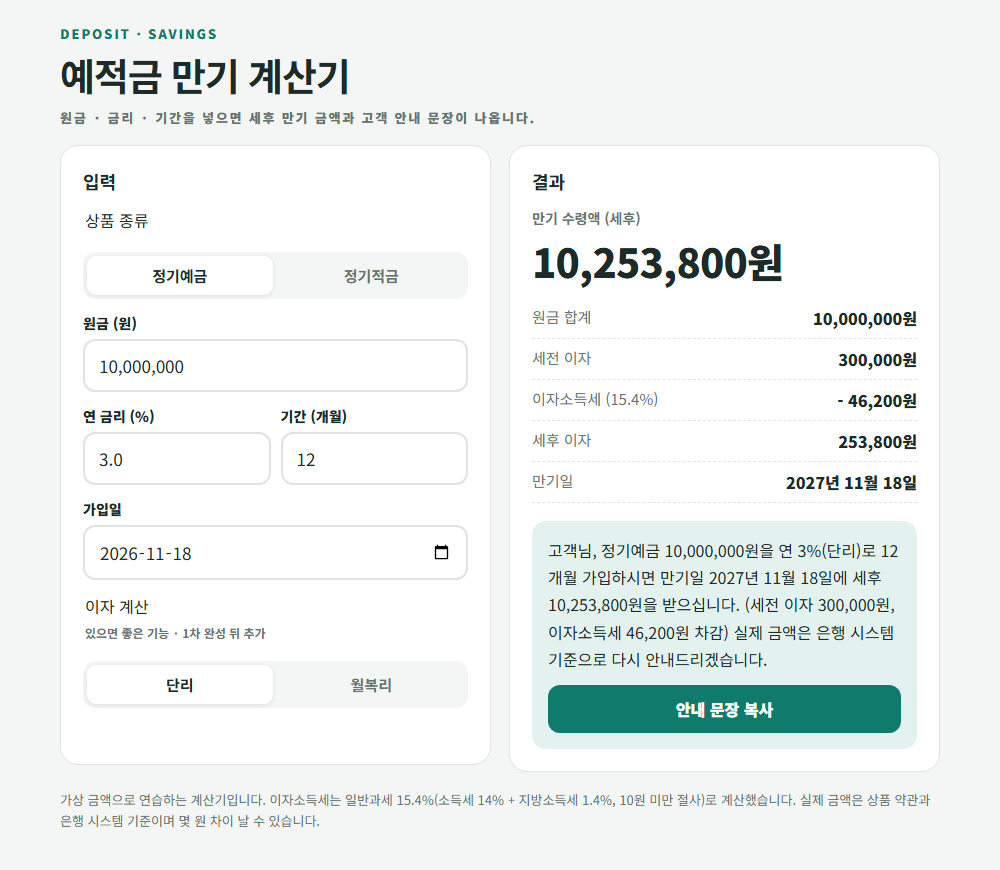
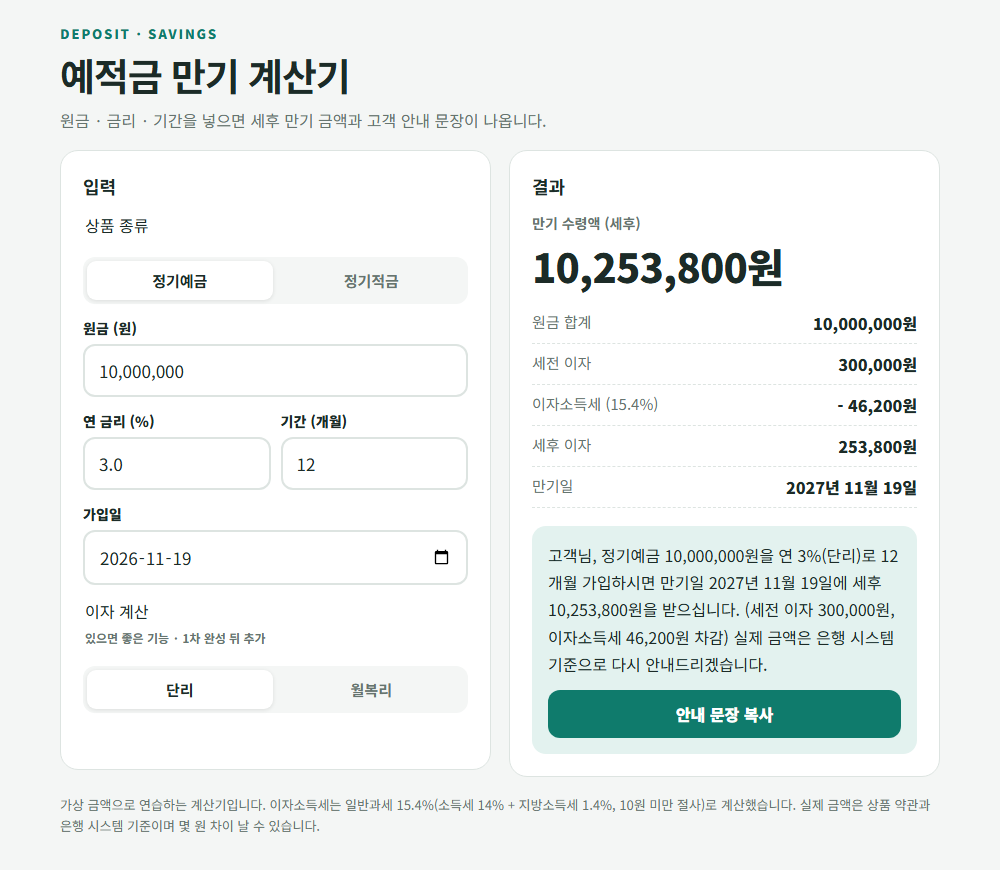
work-os-builder: 불편을 들으면 HTML 도구 아이디어를 먼저 제안
- 작은 도구 모드: 불편 듣기 → 해결 아이디어 2~3개(HTML 한 장) 제안 → Codex가 PRD 초안 채워 확인 → prd.md → 만들까요? → index.html + test.md
- 결과물은 반드시 HTML 하나. 자동 발송 · 시스템 연동 같은 요청은 복사 버튼 · 붙여넣기 모양으로 바꿔 제안
- references/tool-ideas.md: 도구 유형 5가지, 금융 직군별 불편 → 아이디어, HTML로 바꾸는 법
- 질문은 한 번에 하나, 자기소개 업무 먼저 읽기, 만든 뒤 직접 확인 단계 추가
- 강사예시 예적금 계산기: 부제목에 머리말 스타일이 묻던 것 고침

diff --git a/[강사예시]/실습3_나만의도구/예적금-만기계산기/index.html b/[강사예시]/실습3_나만의도구/예적금-만기계산기/index.html
@@ -21,7 +21,7 @@
   * { box-sizing: border-box; }
   body { margin: 0; padding: 24px 16px 40px; background: var(--bg); }
   .wrap { max-width: 880px; margin: 0 auto; display: grid; gap: 18px; }
-  header p { margin: 0 0 4px; color: var(--accent); font-size: 13px; font-weight: 800; letter-spacing: .14em; }
+  header .eyebrow { margin: 0 0 4px; color: var(--accent); font-size: 13px; font-weight: 800; letter-spacing: .14em; }
   h1 { margin: 0; font-size: clamp(28px, 5vw, 38px); letter-spacing: -0.03em; }
   .sub { margin: 6px 0 0; color: var(--muted); }
   .grid { display: grid; grid-template-columns: repeat(auto-fit, minmax(min(100%, 380px), 1fr)); gap: 18px; align-items: start; }
@@ -60,7 +60,7 @@
 <body>
 <div class="wrap">
   <header>
-    <p>DEPOSIT · SAVINGS</p>
+    <p class="eyebrow">DEPOSIT · SAVINGS</p>
     <h1>예적금 만기 계산기</h1>
     <p class="sub">원금 · 금리 · 기간을 넣으면 세후 만기 금액과 고객 안내 문장이 나옵니다.</p>
   </header>

diff --git a/.agents/skills/work-os-builder/references/tool-ideas.md b/.agents/skills/work-os-builder/references/tool-ideas.md
@@ -1,0 +1,38 @@
+# 작은 도구 아이디어 모음 (HTML 한 장)
+
+불편을 들은 뒤 해결 아이디어를 낼 때 쓴다. 모두 `index.html` 하나로, 서버 · 로그인 · API 키 · 실제 데이터 없이 돌아가는 것만 적었다. 이름은 수강생의 직무에 맞게 바꿔서 제안한다.
+
+## 도구 유형 (쉬운 순서)
+
+| 유형 | 모양 | 이런 불편에 | 난이도 |
+|---|---|---|---|
+| **작성기** | 칸 몇 개를 채우면 정해진 문장이 완성되고 복사 버튼 | 같은 안내 · 보고 문장을 매번 다시 씀 | 쉬움 |
+| **점검표** | 체크 항목 + 진행률, 다 체크하면 "완료" 표시, 날짜 바뀌면 초기화 | 정기 업무 · 절차를 빠뜨림 | 쉬움 |
+| **계산기** | 숫자 몇 개 입력 → 결과 + 결과를 담은 안내 문장 복사 | 계산기 두드리고 결과를 다시 옮겨 적음 | 보통 |
+| **변환기 · 검사기** | 글이나 표를 붙여 넣으면 정리 · 가리기 · 빨간 표시 | 엑셀 · 메신저 내용을 손으로 다듬음, 표현 실수 | 보통 |
+| **현황판** | 표(가짜 데이터 또는 붙여넣기)를 숫자 요약 · 막대 차트로 | 매주 같은 집계 · 보고 | 보통 |
+
+## 금융권 직군별 불편 → 아이디어
+
+| 직군 | 자주 듣는 불편 | HTML 도구 아이디어 |
+|---|---|---|
+| 창구 · 개인금융 | 만기 금액 · 이자를 물을 때마다 계산하고 안내문을 다시 씀 | 예적금 만기 계산기 (세후 금액 + 안내 문장 복사) — `[강사예시]` 참고 |
+| 창구 · 개인금융 | 고객마다 필요 서류를 말로 설명하고 빠뜨림 | 업무별 필요 서류 점검표 (업무 고르면 서류 목록 + 안내 문장) |
+| 창구 · 공통 | 마감 때 시재 · 서류 점검을 기억에 의존 | 일일 마감 점검표 (항목 체크 + 진행률 + 날짜 바뀌면 초기화) |
+| 외환 · 송금 | 환전 금액 · 우대율 계산하고 안내를 다시 씀 | 환전 안내 계산기 (기준환율 · 우대율 → 살 때 금액 + 안내 문장) |
+| 여신 · 기업금융 | 중도상환수수료 · 이자를 매번 계산 | 중도상환수수료 계산기 (잔액 · 요율 · 남은 기간 → 수수료 + 설명 문장) |
+| 여신 · 기업금융 | 만기 도래 고객에게 비슷한 연락 문장을 반복 작성 | 만기 안내 문장 작성기 (고객 유형 · 만기일 · 필요 서류 → 문장 복사) |
+| 고객 안내 · 마케팅 | 문자 · 카톡 안내문에 쓰면 안 되는 표현을 매번 눈으로 확인 | 금지어 점검기 (글 붙여 넣기 → "확정 수익 · 무조건 · 100%" 빨간 표시 + 바꿀 말 제안) |
+| 내부통제 · 공통 | AI나 메신저에 붙이기 전에 개인정보를 손으로 지움 | 개인정보 마스킹기 (글 붙여 넣기 → 주민번호 · 계좌 · 전화번호 가리기 + 가린 개수) |
+| 본부 · 기획 | 매주 엑셀을 정리해 같은 모양의 보고 숫자를 만듦 | 주간 현황판 (표 붙여 넣기 → 합계 · 증감 · 막대 차트, 가짜 데이터로 시작) |
+| 본부 · 공통 | 회의 메모를 보고 문장으로 다시 정리 | 회의 메모 → 보고 문장 정리기 (항목 칸 채우기 → 보고 형식 문장 복사) |
+
+## HTML 하나로 안 되는 요청을 바꾸는 법
+
+| 원래 요청 | HTML로 바꾸면 |
+|---|---|
+| 고객에게 자동으로 문자 · 메일 보내기 | 문장을 만들어 **복사 버튼** (보내기는 사람이) |
+| 사내 시스템에서 자동으로 불러오기 | 시스템 화면을 복사해 **붙여 넣으면** 정리 |
+| 엑셀 파일 여러 개 합치기 | 표를 **붙여 넣으면** 합쳐서 보여 주기 (파일 업로드 없이) |
+| 앱 안에서 AI가 답하기 | 정해진 규칙 · 문장 틀로 만들기 (AI 호출은 키 · 보안 승인이 필요한 다음 단계) |
+| 팀이 함께 쓰는 공유 장부 | 첫 버전은 혼자 쓰는 브라우저 저장 + 백업 버튼 (공유는 다음 단계) |

diff --git a/.claude/skills/work-os-builder/references/tool-ideas.md b/.claude/skills/work-os-builder/references/tool-ideas.md
@@ -1,0 +1,38 @@
+# 작은 도구 아이디어 모음 (HTML 한 장)
+
+불편을 들은 뒤 해결 아이디어를 낼 때 쓴다. 모두 `index.html` 하나로, 서버 · 로그인 · API 키 · 실제 데이터 없이 돌아가는 것만 적었다. 이름은 수강생의 직무에 맞게 바꿔서 제안한다.
+
+## 도구 유형 (쉬운 순서)
+
+| 유형 | 모양 | 이런 불편에 | 난이도 |
+|---|---|---|---|
+| **작성기** | 칸 몇 개를 채우면 정해진 문장이 완성되고 복사 버튼 | 같은 안내 · 보고 문장을 매번 다시 씀 | 쉬움 |
+| **점검표** | 체크 항목 + 진행률, 다 체크하면 "완료" 표시, 날짜 바뀌면 초기화 | 정기 업무 · 절차를 빠뜨림 | 쉬움 |
+| **계산기** | 숫자 몇 개 입력 → 결과 + 결과를 담은 안내 문장 복사 | 계산기 두드리고 결과를 다시 옮겨 적음 | 보통 |
+| **변환기 · 검사기** | 글이나 표를 붙여 넣으면 정리 · 가리기 · 빨간 표시 | 엑셀 · 메신저 내용을 손으로 다듬음, 표현 실수 | 보통 |
+| **현황판** | 표(가짜 데이터 또는 붙여넣기)를 숫자 요약 · 막대 차트로 | 매주 같은 집계 · 보고 | 보통 |
+
+## 금융권 직군별 불편 → 아이디어
+
+| 직군 | 자주 듣는 불편 | HTML 도구 아이디어 |
+|---|---|---|
+| 창구 · 개인금융 | 만기 금액 · 이자를 물을 때마다 계산하고 안내문을 다시 씀 | 예적금 만기 계산기 (세후 금액 + 안내 문장 복사) — `[강사예시]` 참고 |
+| 창구 · 개인금융 | 고객마다 필요 서류를 말로 설명하고 빠뜨림 | 업무별 필요 서류 점검표 (업무 고르면 서류 목록 + 안내 문장) |
+| 창구 · 공통 | 마감 때 시재 · 서류 점검을 기억에 의존 | 일일 마감 점검표 (항목 체크 + 진행률 + 날짜 바뀌면 초기화) |
+| 외환 · 송금 | 환전 금액 · 우대율 계산하고 안내를 다시 씀 | 환전 안내 계산기 (기준환율 · 우대율 → 살 때 금액 + 안내 문장) |
+| 여신 · 기업금융 | 중도상환수수료 · 이자를 매번 계산 | 중도상환수수료 계산기 (잔액 · 요율 · 남은 기간 → 수수료 + 설명 문장) |
+| 여신 · 기업금융 | 만기 도래 고객에게 비슷한 연락 문장을 반복 작성 | 만기 안내 문장 작성기 (고객 유형 · 만기일 · 필요 서류 → 문장 복사) |
+| 고객 안내 · 마케팅 | 문자 · 카톡 안내문에 쓰면 안 되는 표현을 매번 눈으로 확인 | 금지어 점검기 (글 붙여 넣기 → "확정 수익 · 무조건 · 100%" 빨간 표시 + 바꿀 말 제안) |
+| 내부통제 · 공통 | AI나 메신저에 붙이기 전에 개인정보를 손으로 지움 | 개인정보 마스킹기 (글 붙여 넣기 → 주민번호 · 계좌 · 전화번호 가리기 + 가린 개수) |
+| 본부 · 기획 | 매주 엑셀을 정리해 같은 모양의 보고 숫자를 만듦 | 주간 현황판 (표 붙여 넣기 → 합계 · 증감 · 막대 차트, 가짜 데이터로 시작) |
+| 본부 · 공통 | 회의 메모를 보고 문장으로 다시 정리 | 회의 메모 → 보고 문장 정리기 (항목 칸 채우기 → 보고 형식 문장 복사) |
+
+## HTML 하나로 안 되는 요청을 바꾸는 법
+
+| 원래 요청 | HTML로 바꾸면 |
+|---|---|
+| 고객에게 자동으로 문자 · 메일 보내기 | 문장을 만들어 **복사 버튼** (보내기는 사람이) |
+| 사내 시스템에서 자동으로 불러오기 | 시스템 화면을 복사해 **붙여 넣으면** 정리 |
+| 엑셀 파일 여러 개 합치기 | 표를 **붙여 넣으면** 합쳐서 보여 주기 (파일 업로드 없이) |
+| 앱 안에서 AI가 답하기 | 정해진 규칙 · 문장 틀로 만들기 (AI 호출은 키 · 보안 승인이 필요한 다음 단계) |
+| 팀이 함께 쓰는 공유 장부 | 첫 버전은 혼자 쓰는 브라우저 저장 + 백업 버튼 (공유는 다음 단계) |
